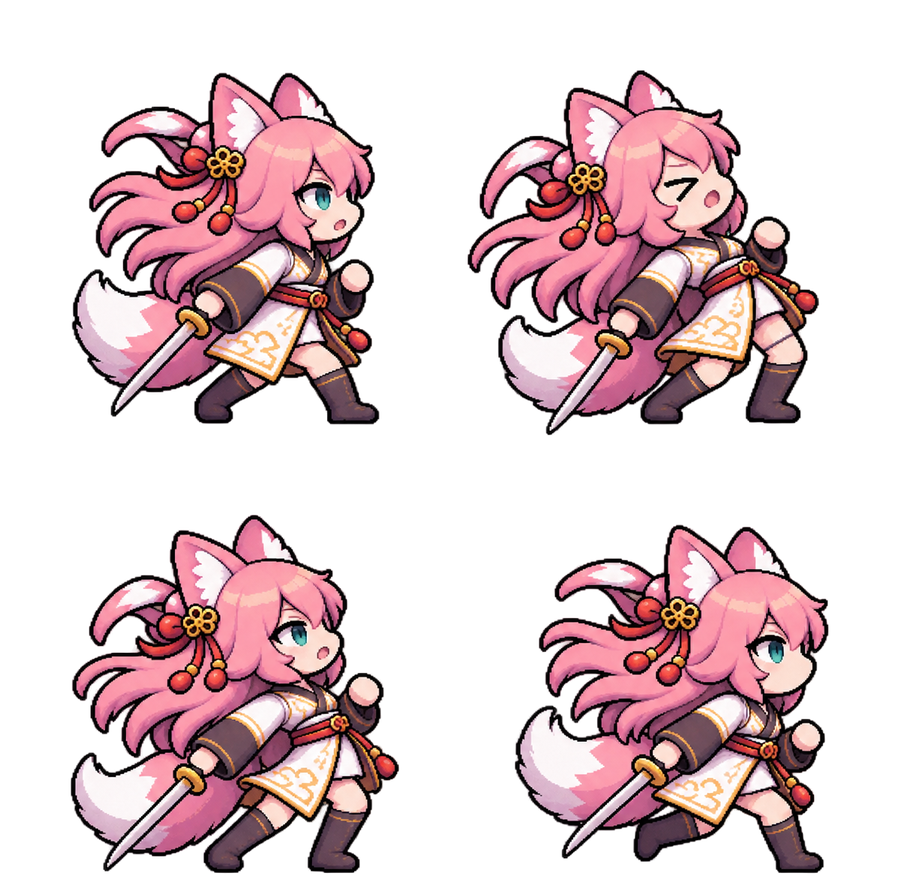
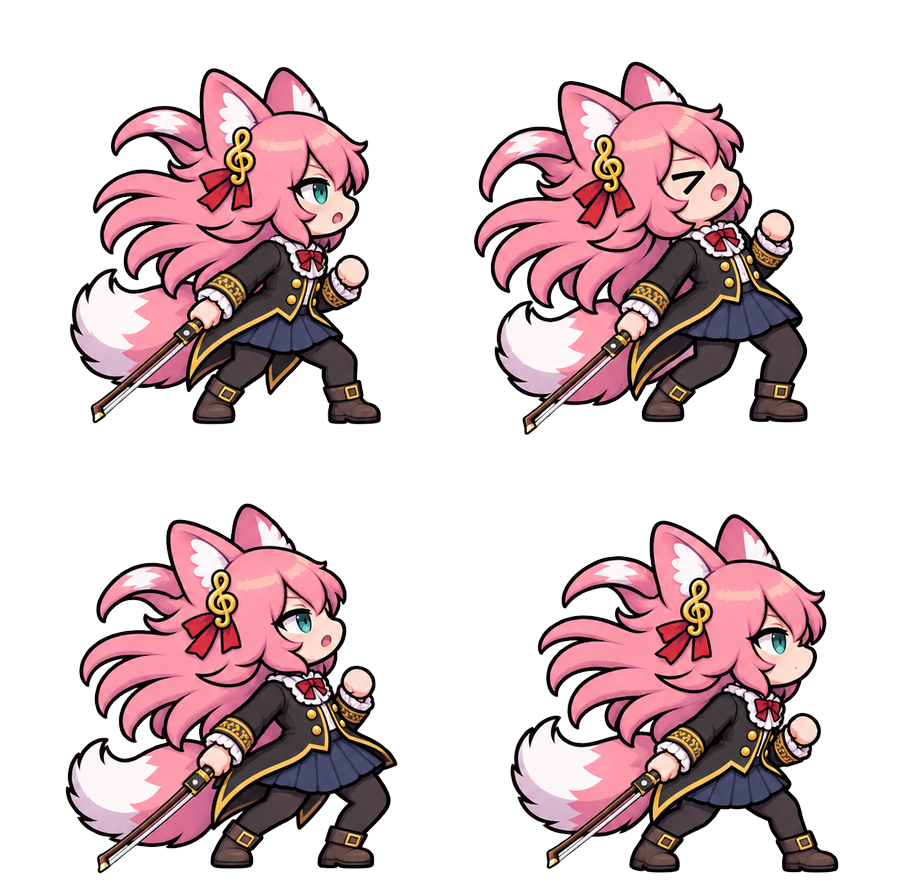
assets: 여우 캐릭터를 연주자 의상으로 교체, 롱노트 에셋 추가
- 여우 시트 8종을 새 의상(연미복 + 바이올린 활)으로 교체
- 지상 베기 6프레임으로 변경(칸 556x448), 롱노트 베어 나가기 fox_slide 추가(칸 556x508)
- 롱노트 붙임줄 리본 tie_ribbon 추가
- 옛 4프레임 칼 궤적 fx_slash_ground 삭제
- 설정화 fox_design_ref 추가, 얼굴 기준 fox_face_ref를 새 의상으로 교체
- ASSETS.md, 세계관 문서 반영

Claude-Session: https://claude.ai/code/session_01VjHCouTwLDYKApFhcZd5kQ

diff --git a/docs/rondo_fox_world_setting.md b/docs/rondo_fox_world_setting.md
@@ -20,7 +20,7 @@ Nov 6, 2026 · @yeon dang
 
 | 인물 | 정체 | 원하는 것 | 화면에서 |
 | --- | --- | --- | --- |
-| 여우 (주인공) | 거장의 공연을 보고 음악을 시작한 견습 바이올리니스트. 칼처럼 휘두르는 것은 바이올린 활 | “그분처럼” 연주하는 것. 처음에는 거장의 화려한 꾸밈까지 흉내 냄 | 플레이어 캐릭터 |
+| 여우 (주인공) | 거장의 공연을 보고 음악을 시작한 견습 바이올리니스트. 검은 연미복을 입고, 바이올린 활을 칼처럼 휘두름 | “그분처럼” 연주하는 것. 처음에는 거장의 화려한 꾸밈까지 흉내 냄 | 플레이어 캐릭터 |
 | 위대한 연주자 (거장) | 여우가 동경하는 바이올리니스트. 이미 무대를 떠났거나 세상을 떠났음 | (등장하지 않음) | 2스테이지부터 무대 뒤 그림자로만 |
 | 해골 지휘자 (악역) | 거장의 가장 오랜 친구이자 이 곡을 써 준 작곡가. 곡은 거장의 이름으로 유명해졌고, 죽어서도 지휘봉을 놓지 못함 | 자기 곡이 “자기가 쓴 대로” 연주되는 것을 듣는 것 | 피트에서 오른손만. 얼굴은 끝까지 안 나옴 |
 
@@ -99,7 +99,8 @@ Nov 6, 2026 · @yeon dang
 
 | 분류 | 파일 | 상태 |
 | --- | --- | --- |
-| 여우 동작 | fox_run, fox_jump, fox_air, fox_ground, fox_hit, fox_fall, fox_idle, fox_victory, fx_slash_ground | 완료 |
+| 여우 동작 (연주자 의상) | fox_run, fox_jump, fox_air, fox_ground, fox_slide(롱노트), fox_hit, fox_fall, fox_idle, fox_victory | 완료 |
+| 롱노트 | tie_ribbon (붙임줄 리본, 머리·꼬리는 enemy_ink 재사용) | 완료 |
 | 적 | enemy_ink(지상), rest_ghost(공중), gold_grace(공중 연타), 각각 _flash 포함 | 완료 |
 | 이펙트 | fx_hit_spark | 완료 |
 | 배경 | bg_stage1(객석), bg_stage2(붉은 무대), bg_stage3(금빛 무대), 가로 반복 타일 | 완료 |
